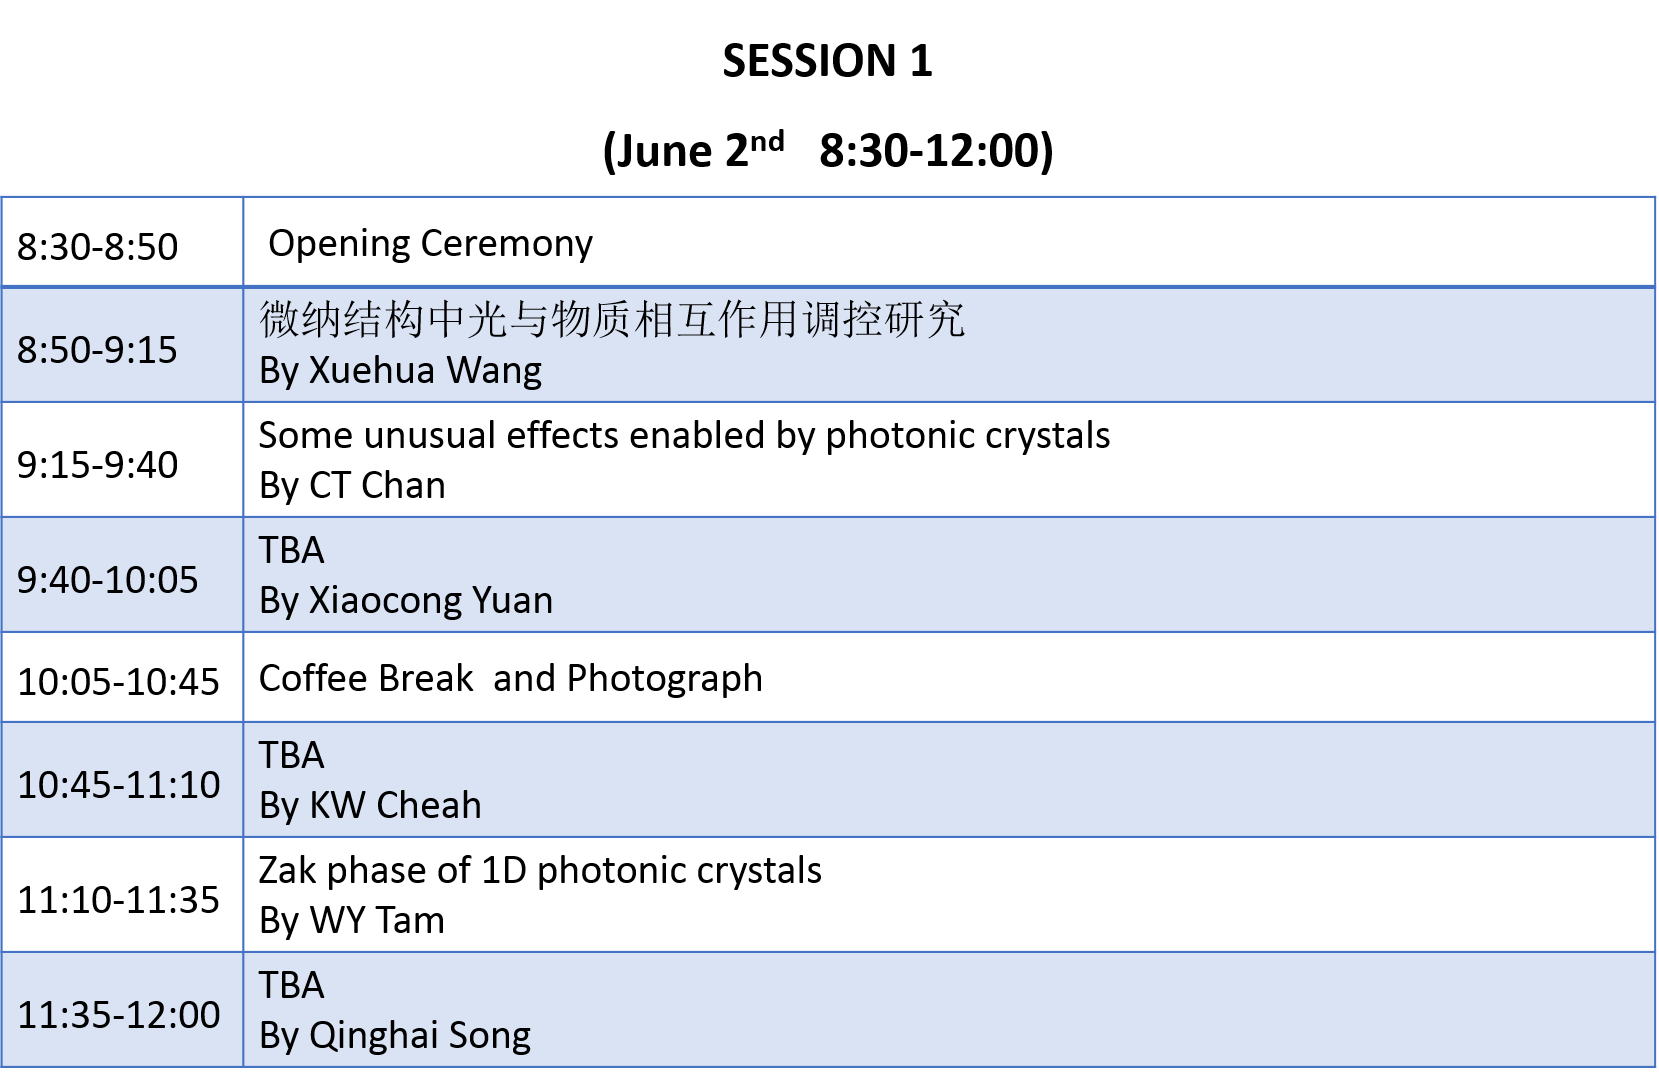
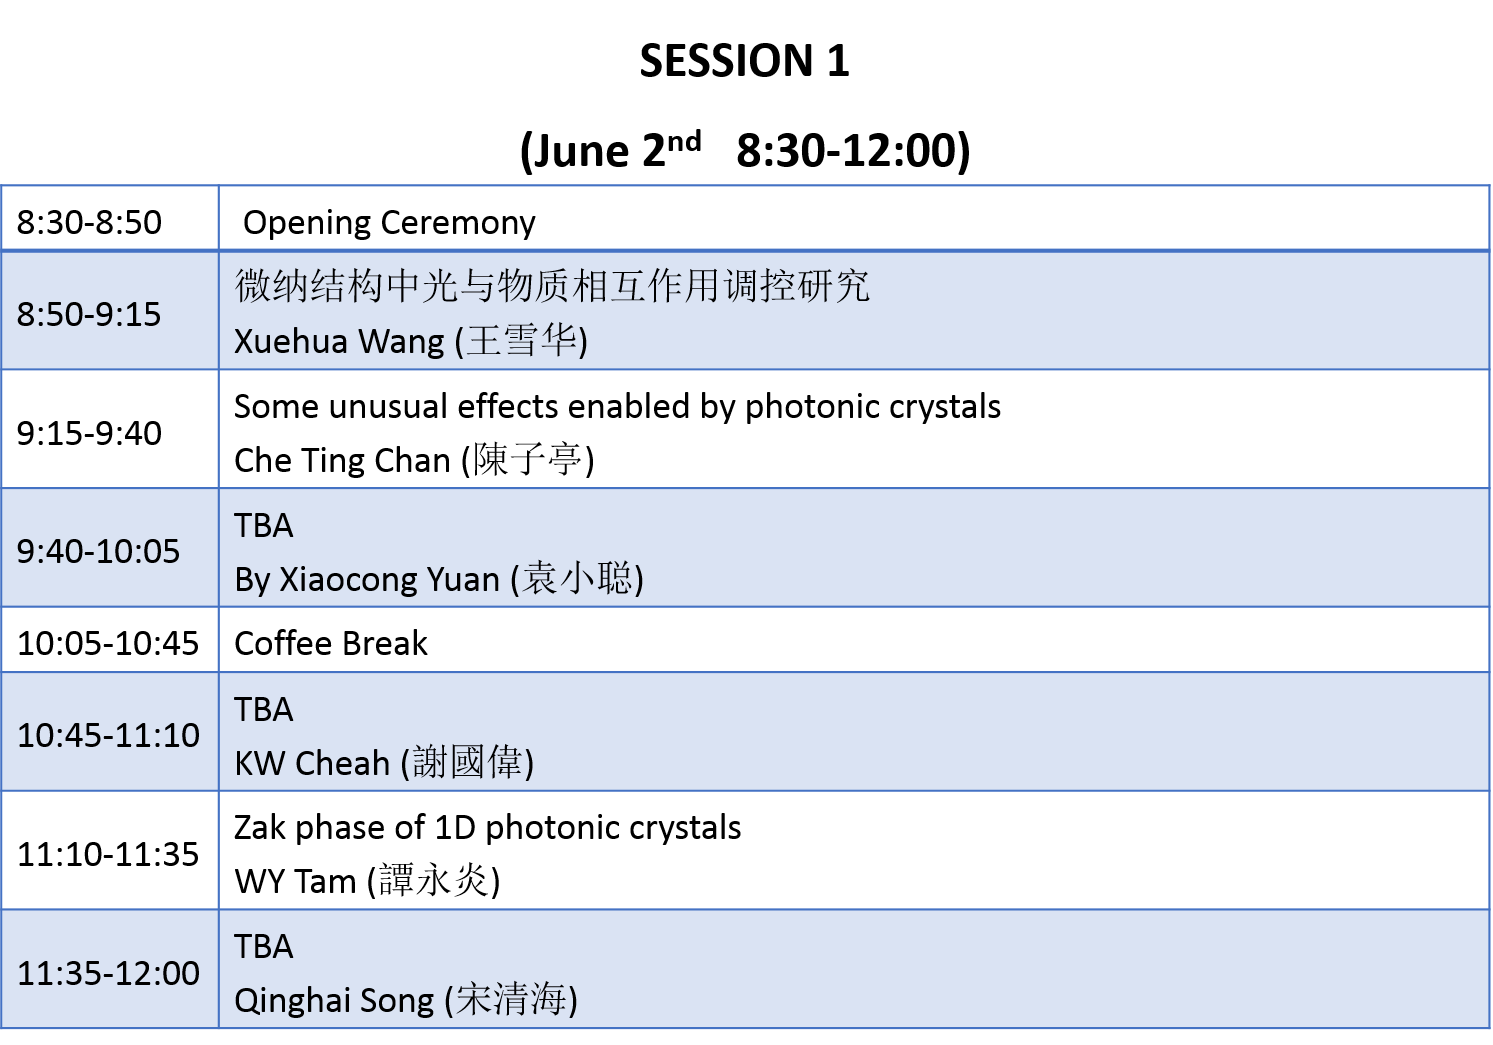
change name

diff --git a/index.html b/index.html
@@ -255,46 +255,48 @@
 
 
 	<p style="text-align: center; font-size:18px";><strong><span style="color: #30bdd8;">Welcome to the symposium!</span></strong></p>
-  <table width="602" border="0" style=" margin-left:60px">>
+ 
+ 
+  <table width="602" border="0" align="center" >>
     <tr>
-      <td width="8" height="91">&nbsp;</td>
-      <td width="185"><div align="center"><img src="pictures/GUIXIN LI1.png" width="181" height="200" /></div></td>
+     
+      <td width="185"><div align="center"><img src="pictures/GUIXIN LI1.png" width="154" height="200" /></div></td>
       <td width="175"><div align="center"><img src="pictures/C T CHAN.jpg" width="171" height="200" /></div></td>
       <td width="176"><div align="center"><img src="pictures/JENSEN LI.jpg" width="171" height="200" /></div></td>
-      <td width="36">&nbsp;</td>
+     
     </tr>
   </table>
   
-  <table width="604" border="0"  style=" margin-left:60px">>
+  <table width="604" border="0" align="center">>
     <tr>
-      <td width="11">&nbsp;</td>
+     
       <td width="182"><p align="center" style=" font-size:16px"><a href="http://mse.sustc.edu.cn/en/people/detail/id/90">Guixin Li</a></p>        <p align="center" style=" font-size:16px">Chair, SUSTC</p>      </td>
       <td width="175"><p align="center" style=" font-size:16px"><a href="http://physics.ust.hk/eng/people_detail.php?pplcat=1&amp;id=25">Che-Ting Chan</a></p>
         <p align="center" style=" font-size:16px">Co-chair, HKUST</p></td>
       <td width="178"><p align="center" style=" font-size:16px"><a href="http://physics.ust.hk/eng/people_detail.php?pplcat=1&amp;id=433">Jensen Li</a></p>
         <p align="center" style=" font-size:16px">Co-chair,HKUST</p></td>
-      <td width="36">&nbsp;</td>
+     
     </tr>
   </table>
-  <table width="602" border="0" style=" margin-left:60px">>
+  <table width="602" border="0" align="center" >>
     <tr>
-      <td width="8" height="91">&nbsp;</td>
+     
       <td width="185"><div align="center"><img src="pictures/xiaocong yuan.JPG" width="147" height="200" /></div></td>
       <td width="175"><div align="center"><img src="pictures/qinghai song.jpg" width="136" height="200" /></div></td>
       <td width="176"><div align="center"><img src="pictures/JACK NG.jpg" alt="" width="154" height="200" /></div></td>
-      <td width="36">&nbsp;</td>
+      
     </tr>
   </table>
-  <table width="604" border="0"  style=" margin-left:60px">>
+  <table width="604" border="0"  align="center">>
     <tr>
-      <td width="11">&nbsp;</td>
+      
       <td width="182"><p align="center" style=" font-size:16px"><a href="http://icoe.szu.edu.cn/plus/view.php?aid=1563">Xiaocong Yuan</a></p>
         <p align="center" style=" font-size:16px">Co-chair, SZU</p></td>
       <td width="175"><p align="center" style=" font-size:16px"><a href="http://219.223.252.33/body/shizi/detailen.php?strID=736">Qinghai Song</a></p>
         <p align="center" style=" font-size:16px">Co-chair, HIT</p></td>
       <td width="178"><p align="center" style=" font-size:16px"><a href="http://physics.hkbu.edu.hk/home/info.php/people_details/pID,22">Jack Ng</a></p>
         <p align="center" style=" font-size:16px">Co-chair, HKBU</p></td>
-      <td width="36">&nbsp;</td>
+      
     </tr>
   </table>
   <p style="text-align: center;"></p>

diff --git a/Program_the Greater Bay Area Symposium for Wave Functional Materials.html b/Program_the Greater Bay Area Symposium for Wave Functional Materials.html
@@ -79,10 +79,10 @@
   <p>&nbsp;</p>
  <p style="text-align: center;"><img src="pictures/Schedule.png" width="400" height="44" /></p> 
   <p>&nbsp;</p>
-  <p style="text-align: center;"><img src="pictures/Session 1.png" width="750" height="622" /></p> 
-    <p style="text-align: center;"><img src="pictures/Session 2.png" width="750" height="622" /></p> 
-     <p style="text-align: center;"><img src="pictures/Session 3.png" width="750" height="622" /></p> 
-      <p style="text-align: center;"><img src="pictures/Session 4.png" width="750" height="622" /></p> 
+  <p style="text-align: center;"><img src="pictures/Session 1.png" width="750" height="523" /></p> 
+    <p style="text-align: center;"><img src="pictures/Session 2.png" width="750" height="550" /></p> 
+     <p style="text-align: center;"><img src="pictures/Session 3.png" width="750" height="555" /></p> 
+      <p style="text-align: center;"><img src="pictures/Session 4.png" width="750" height="574" /></p> 
        <p>&nbsp;</p>
         <p>&nbsp;</p>
          <p>&nbsp;</p>
